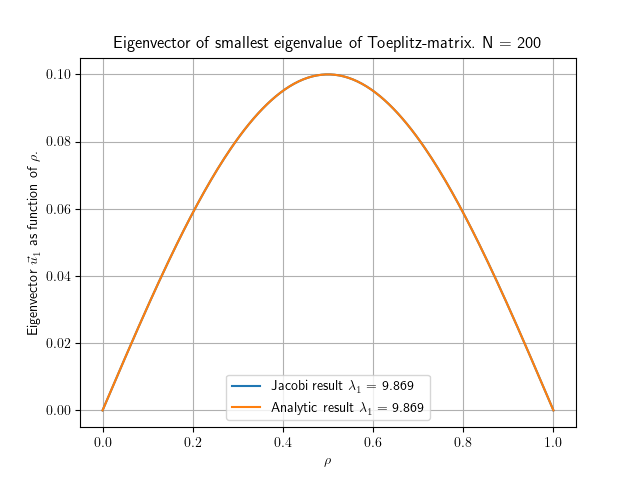
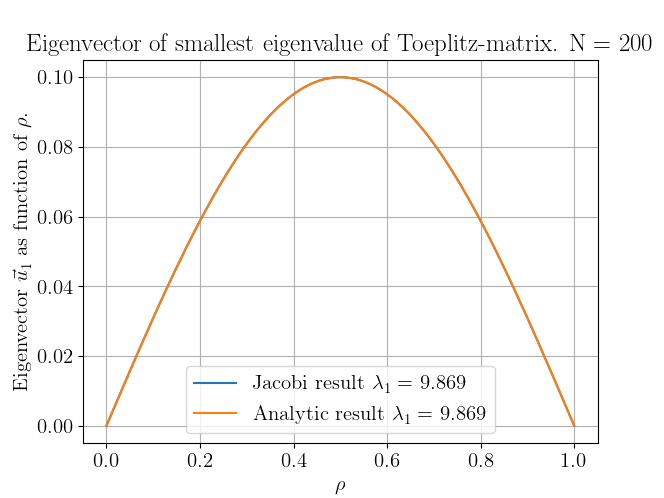
Improved text-size in plot.

diff --git a/doc/Project_2_FYS3150.tex b/doc/Project_2_FYS3150.tex
@@ -17,6 +17,7 @@
 \usepackage{listings}         % display code
 \usepackage{subfigure}        % imports a lot of cool and useful figure commands
 \usepackage{cprotect}
+\usepackage{float}
 
 % defines the color of hyperref objects
 % Blending two colors:  blue!80!black  =  80% blue and 20% black
@@ -130,7 +131,7 @@ Many problems can be rewritten as eigenvalue problems, which means that being ab
 
 The numerical solution to the buckling beam problem seems to be in agreement with the analytical results. There is a larger error however in both quantum harmonic oscillator problems, with the problem with two electrons having the larger error of the two. As there are significant sources of errors not related to the algorithm applied to solve these, these results tell little about the error caused by the algorithm itself. Further research would be necessary in order to use these problems to further evaluate our implementation of the algorithm, and the amount of research seemingly necessary would warrant a study of its own.
 
-We performed a benchmark of our implementation, and compared it to the built-in eig\_sym solver from the Armadillo C++ library. The benchmark revealed our Jacobi solver to be faster for the matrix used in the buckling beam problem, but slower for the matrix used in the two-electron problem. We concluded that our jacobi solver works well for simple symmetric matrices, but eig\_sym is better suited for more complicated symmetric matrices.
+We performed a benchmark of our implementation, and compared it to the built-in eig\_sym solver from the Armadillo C++ library. The benchmark revealed our Jacobi solver to be faster for the matrix used in the buckling beam problem, but slower for the matrix used in the two-electron problem. We concluded that our jacobi solver works well for simple symmetric matrices, but eig\_sym is better suited for more complicated symmetric matrices.`
 \end{abstract}
 
 
@@ -611,8 +612,8 @@ In this case we introduce the factor $\omega_r$ and the extra term $1/\rho_i$. G
 
 We calculated the first eigenvector numerically and plotted it against the analytical eigenvector with $N=200$. The plot is displayed in \hyperref[fig:IV:a:1]{Figure 1}. In order for them to be scaled similarly we chose to normalize both. Both the numerical and analytical value of the eigenvalue belonging to the eigenvector is written down in the legend text of the plot in \hyperref[fig:IV:a:1]{Figure 1}. Runs with a larger $N$ were also performed but they all produced similar results.
 
-\begin{figure}[h!] \label{fig:IV:a:1}
-\includegraphics[scale=0.6]{toeplitz.png}
+\begin{figure}[H] \label{fig:IV:a:1}
+\includegraphics[width=\columnwidth]{toeplitz.png}
 \caption{Plot displaying the first eigenvector calculated numerically in the buckling beam problem with $N=200$ plotted together with the analytical result. Both the analytical and numerical solution have been normalized so they are scaled similarly. The plot also shows the numerical and analytic eigenvalue belonging to this solution in the legend text.}
 \end{figure}
 

diff --git a/project.py b/project.py
@@ -103,6 +103,10 @@ if choose_run == "toeplitz" or choose_run == "to":
     comp_norm = np.linalg.norm(eigvec)
 
     mpl.rcParams.update({"text.usetex": True})  # using latex.
+    font = {'family': 'normal',
+            'weight': 'bold',
+            'size': 15}
+    mpl.rc('font', **font)  # better font-size
     # creating labels for plot:
     comp_lab = r"Jacobi result $\lambda_{1} = $ " + f"{eigval:.3f}"
     an_lab = r"Analytic result $\lambda_{1} = $ " + f"{anal_eigvals[0]:.3f}"
